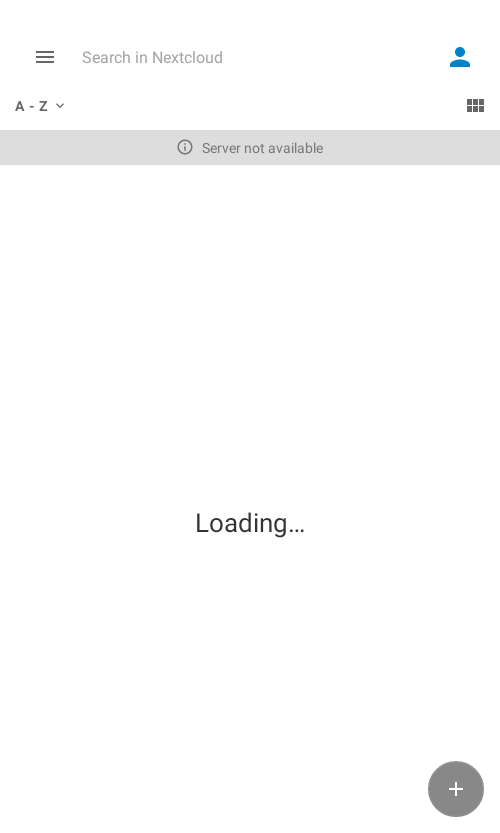
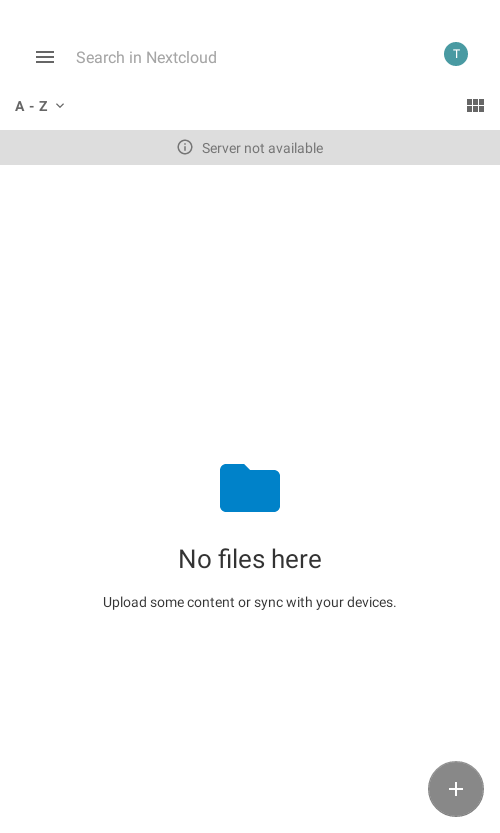
Update FileDisplayActivity screenshots

diff --git a/src/androidTest/java/com/nextcloud/client/FileDisplayActivityScreenshotIT.kt b/src/androidTest/java/com/nextcloud/client/FileDisplayActivityScreenshotIT.kt
@@ -1,0 +1,112 @@
+/*
+ *
+ * Nextcloud Android client application
+ *
+ * @author Tobias Kaminsky
+ * Copyright (C) 2019 Tobias Kaminsky
+ * Copyright (C) 2019 Nextcloud GmbH
+ *
+ * This program is free software: you can redistribute it and/or modify
+ * it under the terms of the GNU Affero General Public License as published by
+ * the Free Software Foundation, either version 3 of the License, or
+ * (at your option) any later version.
+ *
+ * This program is distributed in the hope that it will be useful,
+ * but WITHOUT ANY WARRANTY; without even the implied warranty of
+ * MERCHANTABILITY or FITNESS FOR A PARTICULAR PURPOSE. See the
+ * GNU Affero General Public License for more details.
+ *
+ * You should have received a copy of the GNU Affero General Public License
+ * along with this program. If not, see <https://www.gnu.org/licenses/>.
+ */
+package com.nextcloud.client
+
+import android.Manifest
+import androidx.test.espresso.Espresso
+import androidx.test.espresso.contrib.DrawerActions
+import androidx.test.espresso.contrib.NavigationViewActions
+import androidx.test.espresso.intent.rule.IntentsTestRule
+import androidx.test.espresso.matcher.ViewMatchers
+import androidx.test.rule.GrantPermissionRule
+import com.owncloud.android.AbstractIT
+import com.owncloud.android.R
+import com.owncloud.android.ui.activity.FileDisplayActivity
+import com.owncloud.android.utils.ScreenshotTest
+import org.junit.Assert
+import org.junit.Rule
+import org.junit.Test
+
+class FileDisplayActivityScreenshotIT : AbstractIT() {
+    @get:Rule
+    val activityRule = IntentsTestRule(
+        FileDisplayActivity::class.java,
+        true,
+        false
+    )
+
+    @get:Rule
+    val permissionRule = GrantPermissionRule.grant(
+        Manifest.permission.WRITE_EXTERNAL_STORAGE
+    )
+
+    @Test
+    @ScreenshotTest
+    fun open() {
+        val sut = activityRule.launchActivity(null)
+        sut.listOfFilesFragment!!.setFabEnabled(false)
+        sut.listOfFilesFragment!!.setEmptyListLoadingMessage()
+        sut.listOfFilesFragment!!.isLoading = false
+
+        shortSleep()
+        waitForIdleSync()
+        screenshot(sut)
+    }
+
+    // @Test
+    // @ScreenshotTest
+    fun showMediaThenAllFiles() {
+        val fileDisplayActivity = activityRule.launchActivity(null)
+        val sut = fileDisplayActivity.listOfFilesFragment
+        Assert.assertNotNull(sut)
+        sut!!.setFabEnabled(false)
+        sut.setEmptyListLoadingMessage()
+        sut.isLoading = false
+
+        // open drawer
+        Espresso.onView(ViewMatchers.withId(R.id.drawer_layout)).perform(DrawerActions.open())
+
+        // click "all files"
+        Espresso.onView(ViewMatchers.withId(R.id.nav_view))
+            .perform(NavigationViewActions.navigateTo(R.id.nav_gallery))
+
+        // wait
+        shortSleep()
+
+        // click "all files"
+        Espresso.onView(ViewMatchers.withId(R.id.drawer_layout)).perform(DrawerActions.open())
+        Espresso.onView(ViewMatchers.withId(R.id.nav_view))
+            .perform(NavigationViewActions.navigateTo(R.id.nav_all_files))
+
+        // then compare screenshot
+        shortSleep()
+        sut.setFabEnabled(false)
+        sut.setEmptyListLoadingMessage()
+        sut.isLoading = false
+        shortSleep()
+        screenshot(fileDisplayActivity)
+    }
+
+    @Test
+    @ScreenshotTest
+    fun drawer() {
+        val sut = activityRule.launchActivity(null)
+        Espresso.onView(ViewMatchers.withId(R.id.drawer_layout)).perform(DrawerActions.open())
+        sut.listOfFilesFragment!!.setFabEnabled(false)
+        sut.listOfFilesFragment!!.setEmptyListLoadingMessage()
+        sut.listOfFilesFragment!!.isLoading = false
+
+        shortSleep()
+        waitForIdleSync()
+        screenshot(sut)
+    }
+}
